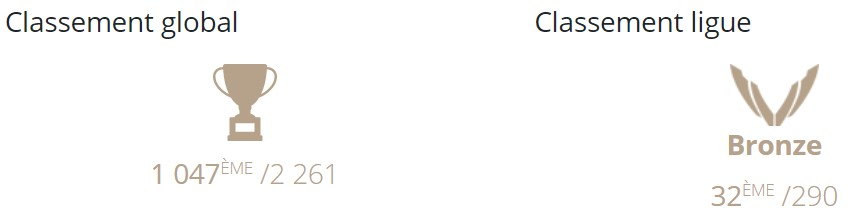
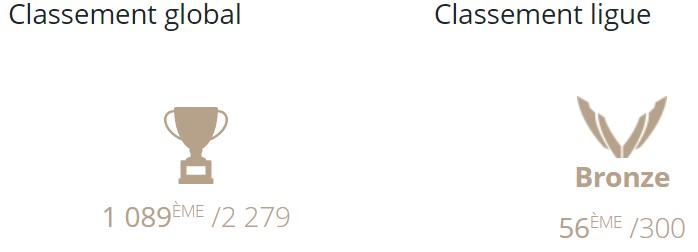
final readme update final result added Last game added

diff --git a/README.md b/README.md
@@ -34,10 +34,13 @@ https://github.com/CodinGameCommunity/ocean-of-code.
 
 ### Resultat:
 Ceci est ma première compétition de code. (j'ai de la marge de progression... ;o)  
-7 228 participants dans le monde!
-2263 classés
+7 258 participants dans le monde!
+2279 classés
 mon résultat:
 ![alt text](https://github.com/nicowtt/CodingGame_contest_SubMarineIA/blob/master/Tof2.jpg)
+
+### Dernière partie:
+https://www.codingame.com/replay/452687072
 
 ### Impressions personnelles:
 C'est un défis trés difficile... mais tellement fun!
